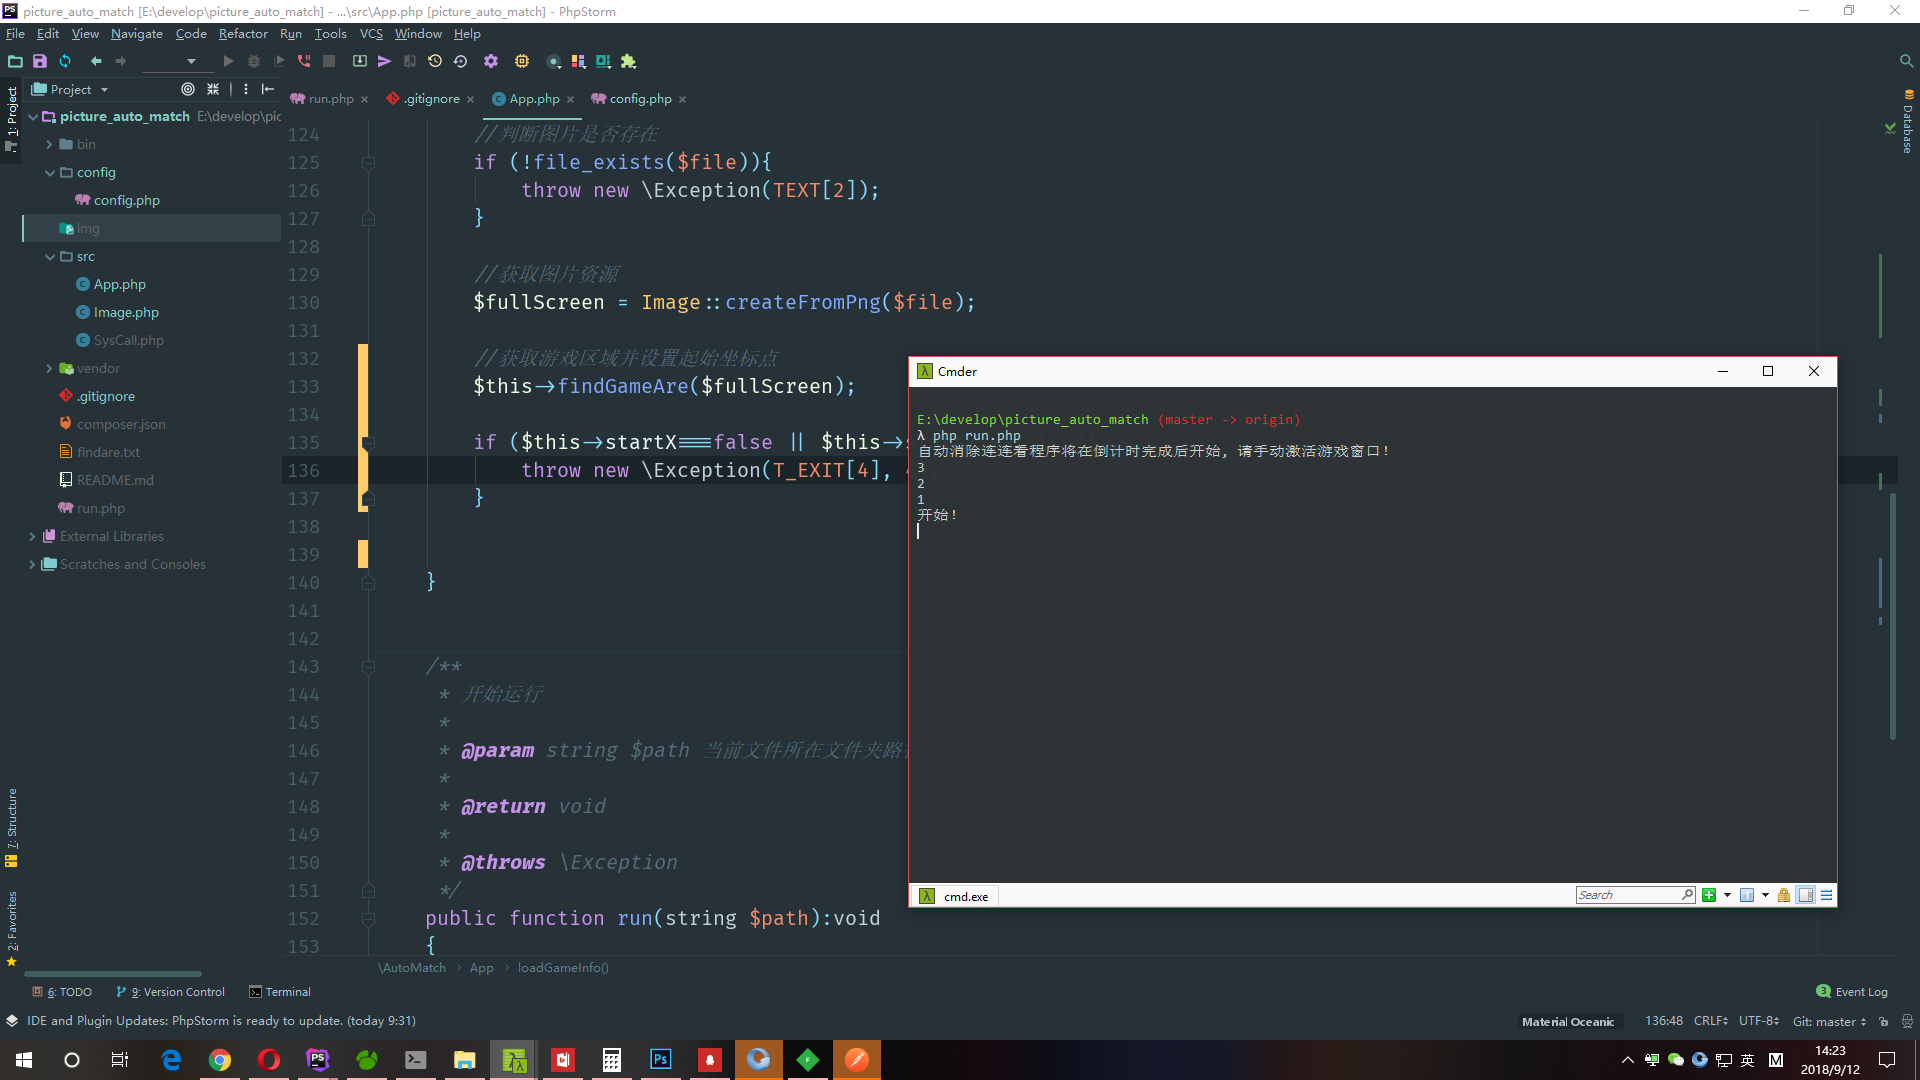
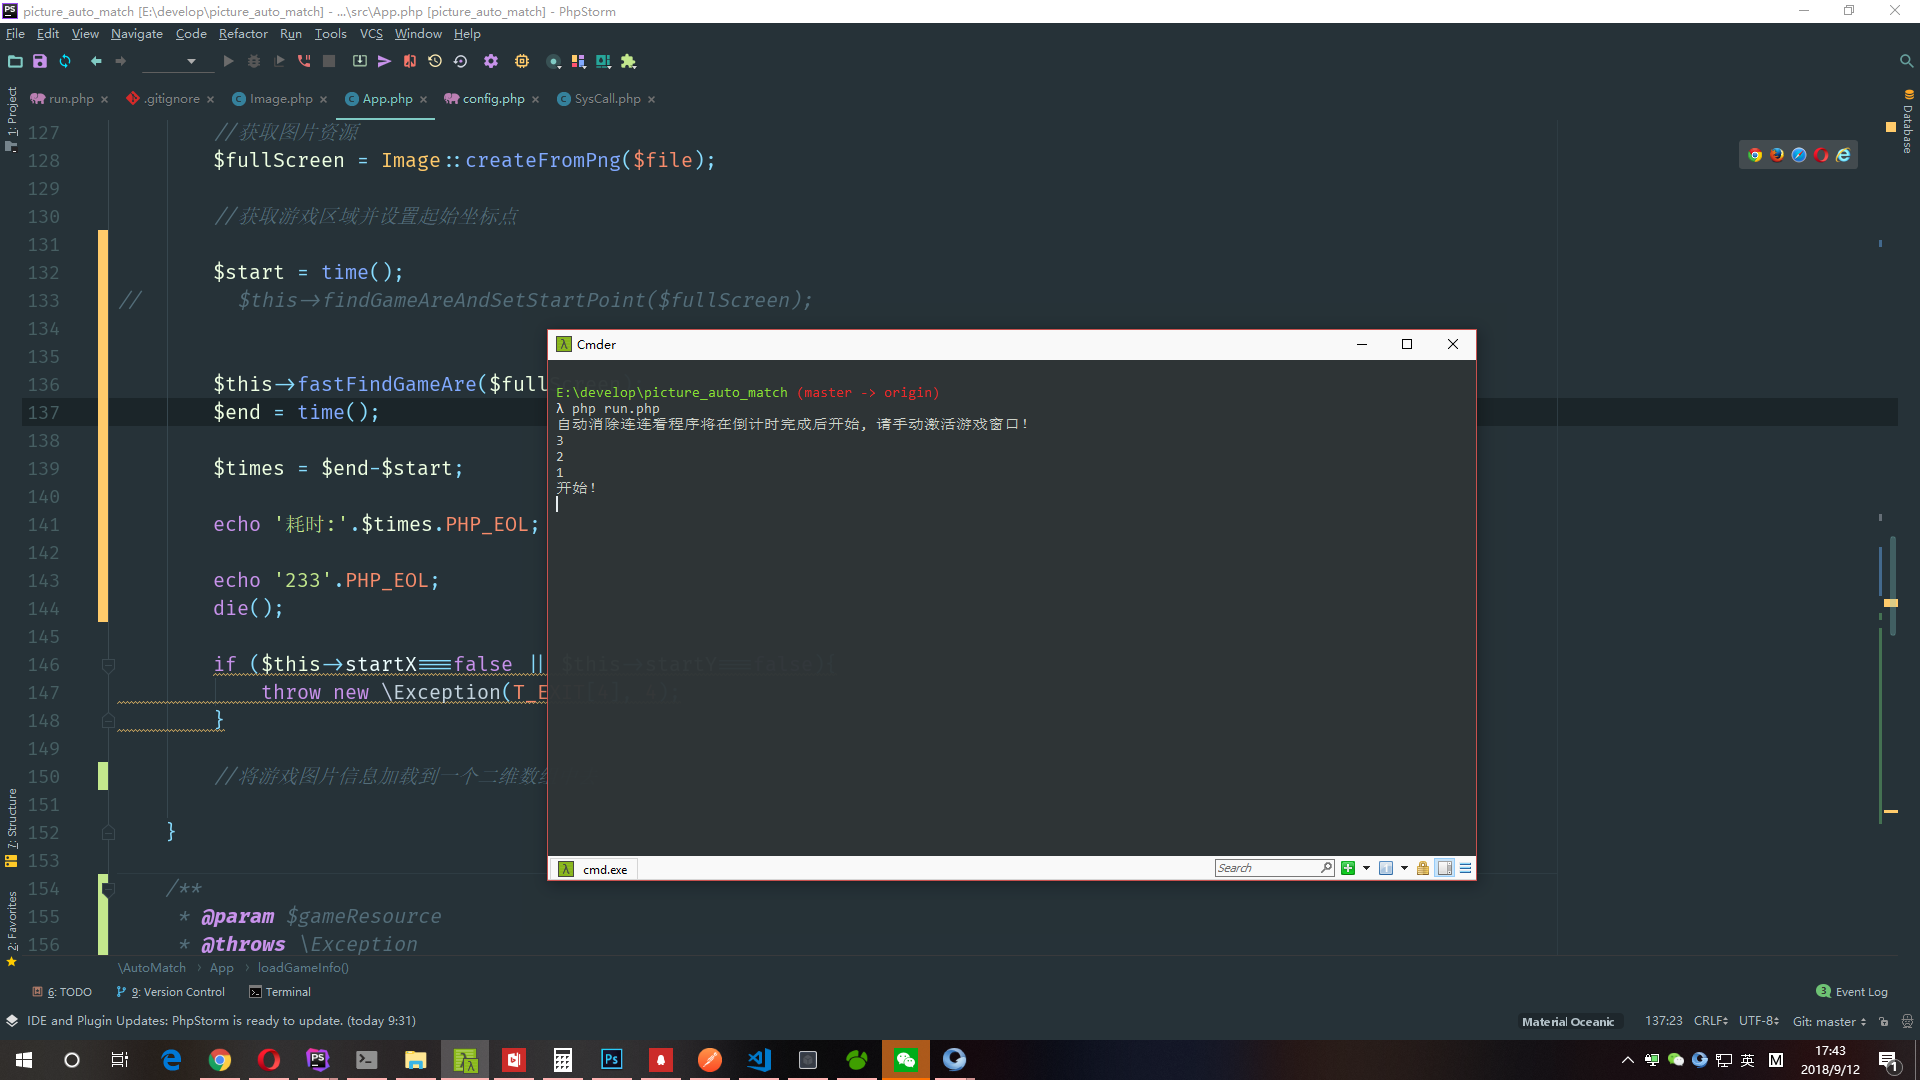
优化定位游戏窗口速度

diff --git a/src/App.php b/src/App.php
@@ -41,7 +41,7 @@ class App
         echo TEXT[1] . PHP_EOL ;
     }
 
-    protected function findGameAre($gameResource):void
+    protected function findGameAreAndSetStartPoint($gameResource):void
     {
         //获取图片宽度
         $fullScreenWidth = Image::width($gameResource);
@@ -119,8 +119,6 @@ class App
      */
     protected function loadGameInfo(string $file):void
     {
-//        $file = $this->currentDirPath . '/test.png';
-
         //判断图片是否存在
         if (!file_exists($file)){
             throw new \Exception(TEXT[2]);
@@ -130,15 +128,146 @@ class App
         $fullScreen = Image::createFromPng($file);
 
         //获取游戏区域并设置起始坐标点
-        $this->findGameAre($fullScreen);
+
+        $start = time();
+//        $this->findGameAreAndSetStartPoint($fullScreen);
+
+
+        $this->fastFindGameAre($fullScreen);
+        $end = time();
+
+        $times = $end-$start;
+
+        echo '耗时:'.$times.PHP_EOL;
+
+        echo '233'.PHP_EOL;
+        die();
 
         if ($this->startX===false || $this->startY===false){
             throw new \Exception(T_EXIT[4], 4);
         }
 
+        //将游戏图片信息加载到一个二维数组中去
 
     }
 
+    /**
+     * @param $gameResource
+     * @throws \Exception
+     * @return bool
+     */
+    protected function fastFindGameAre($gameResource)
+    {
+        //获取图片宽度
+        $fullScreenWidth = Image::width($gameResource);
+        $fullScreenHeight = Image::height($gameResource);
+
+        //需要扫描的列
+        $needScanWidth = $fullScreenWidth - SKIP_START_COLUMN;
+
+        //已经无法找到游戏区域了
+        if ($needScanWidth < 0){
+            throw new \Exception(T_EXIT[4], 4);
+        }
+
+        //如果全屏和游戏的区域一样大，直接判断中间点颜色
+        if ($needScanWidth == 0){
+            return true;
+        }
+
+        $keyPoint = (int)($needScanWidth / GAME_ARE_WIDTH);
+
+        echo $needScanWidth.' '.GAME_ARE_WIDTH.' '.$keyPoint . PHP_EOL;
+
+        for ($row=SKIP_START_ROW;$row<$fullScreenHeight;$row++){
+
+            for ($scan=0;$scan<$keyPoint;$scan++){
+
+                $gameMiddle = (int)(GAME_ARE_WIDTH/2);
+
+                $pointX = SKIP_START_COLUMN + ($scan*GAME_ARE_WIDTH) + $gameMiddle;
+
+                $lastRgb = Image::colorAt($gameResource, $pointX, $row);
+
+                echo "{$pointX}, $row".PHP_EOL;
+
+                if (Image::colorSimilar(GAME_BACKGROUND_COLOR, $lastRgb, COLOR_LIMIT)){
+
+                    if ($this->findStartAndEnd($gameResource, $pointX, $row, $fullScreenWidth)){
+                        break 2;
+                    }
+
+                }
+
+            }
+        }
+
+        echo "快速定位完毕".PHP_EOL;
+    }
+
+    //查找头尾
+    protected function findStartAndEnd($gameResource, $pointX, $y, $width)
+    {
+
+
+        $left = $pointX -1;
+        $right = $pointX +1;
+
+        $leftCount = 0;
+        $rightCount = 0;
+
+        for ($column=SKIP_START_COLUMN;$column<$width;$column++){
+
+            if ($left > 0){
+                $leftColor = Image::colorAt($gameResource, $left, $y);
+                $leftColor = Image::colorSimilar(GAME_BACKGROUND_COLOR, $leftColor, COLOR_LIMIT);
+            }else{
+                $leftColor = false;
+            }
+
+            if ($right < $width){
+                $rightColor = Image::colorAt($gameResource, $right, $y);
+                $rightColor = Image::colorSimilar(GAME_BACKGROUND_COLOR, $rightColor, COLOR_LIMIT);
+            }else{
+                $rightColor = false;
+            }
+
+
+
+            if ($leftColor){
+                $leftCount++;
+                $left--;
+            }
+
+            if ($rightColor){
+                $rightCount++;
+                $right++;
+            }
+
+            if (!$leftColor && !$rightColor){
+                break;
+            }
+        }
+
+        $continueCount = $leftCount+$rightCount+GAME_ARE_LIMIT+1;
+
+
+        if ($continueCount >= GAME_ARE_WIDTH){
+
+            echo "233".PHP_EOL;
+
+            $game = Image::crop($gameResource, $left, $y, GAME_ARE_WIDTH, GAME_ARE_HEIGHT);
+            Image::savePng($game, $this->currentDirPath . GAME_ARE_IMG);
+
+            $this->startX = $left;
+            $this->startY = $left + GAME_ARE_WIDTH;
+
+            return true;
+        }
+
+        return false;
+
+    }
 
     /**
      * 开始运行

diff --git a/config/config.php b/config/config.php
@@ -27,8 +27,8 @@ define('FULL_SCREEN_IMG', '/img/fullScreen.png');
 // 游戏区域图片保存位置
 define('GAME_ARE_IMG', '/img/gameare.png');
 // 查找起始坐标跳过点,加速查找起始坐标
-define('SKIP_START_COLUMN', 826);
-define('SKIP_START_ROW', 334);
+define('SKIP_START_COLUMN', 0);
+define('SKIP_START_ROW', 0);
 // 游戏区域大小，根据自己的实际游戏窗口大小调整
 define('GAME_ARE_WIDTH', 928);//930
 define('GAME_ARE_HEIGHT', 550);//554
